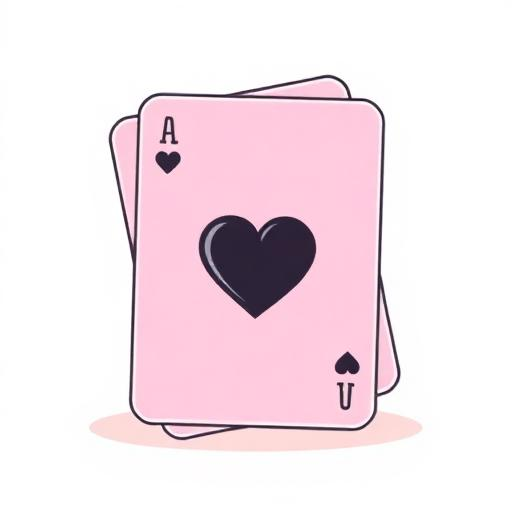
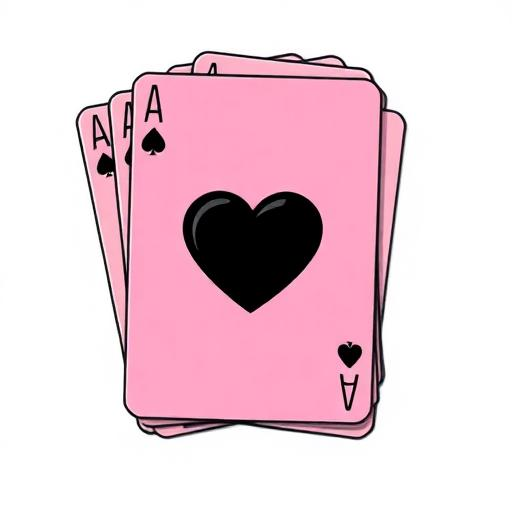
Update card art for Conversation Starters
Update the Conversation Starters module card art to remove the white background, stack cards, and replace the "A" with a heart. Also, remove the "Communication" bubble.

diff --git a/src/components/QuickStartModule.tsx b/src/components/QuickStartModule.tsx
@@ -23,7 +23,7 @@ interface QuickStartProps {
 const quickStartItems = [
   {
     id: 'conversation-starters',
-    category: 'Communication',
+    category: '', // Remove category for this item
     title: 'Ditch the Small Talk',
     subtitle: 'Deep conversations',
     icon: 'custom', // Custom image instead of icon
@@ -122,9 +122,11 @@ const QuickStartModule: React.FC<QuickStartProps> = ({ onNavigateToModule }) => 
                     
                     {/* Header with category */}
                     <div className="relative">
-                      <div className="bg-white/25 backdrop-blur-sm rounded-full px-2 sm:px-3 py-1 sm:py-1.5 w-fit mb-2 sm:mb-4 shadow-lg">
-                        <span className="text-xs font-semibold text-white">{item.category}</span>
-                      </div>
+                      {item.category && (
+                        <div className="bg-white/25 backdrop-blur-sm rounded-full px-2 sm:px-3 py-1 sm:py-1.5 w-fit mb-2 sm:mb-4 shadow-lg">
+                          <span className="text-xs font-semibold text-white">{item.category}</span>
+                        </div>
+                      )}
                     </div>
                     
                     {/* Icon container */}
